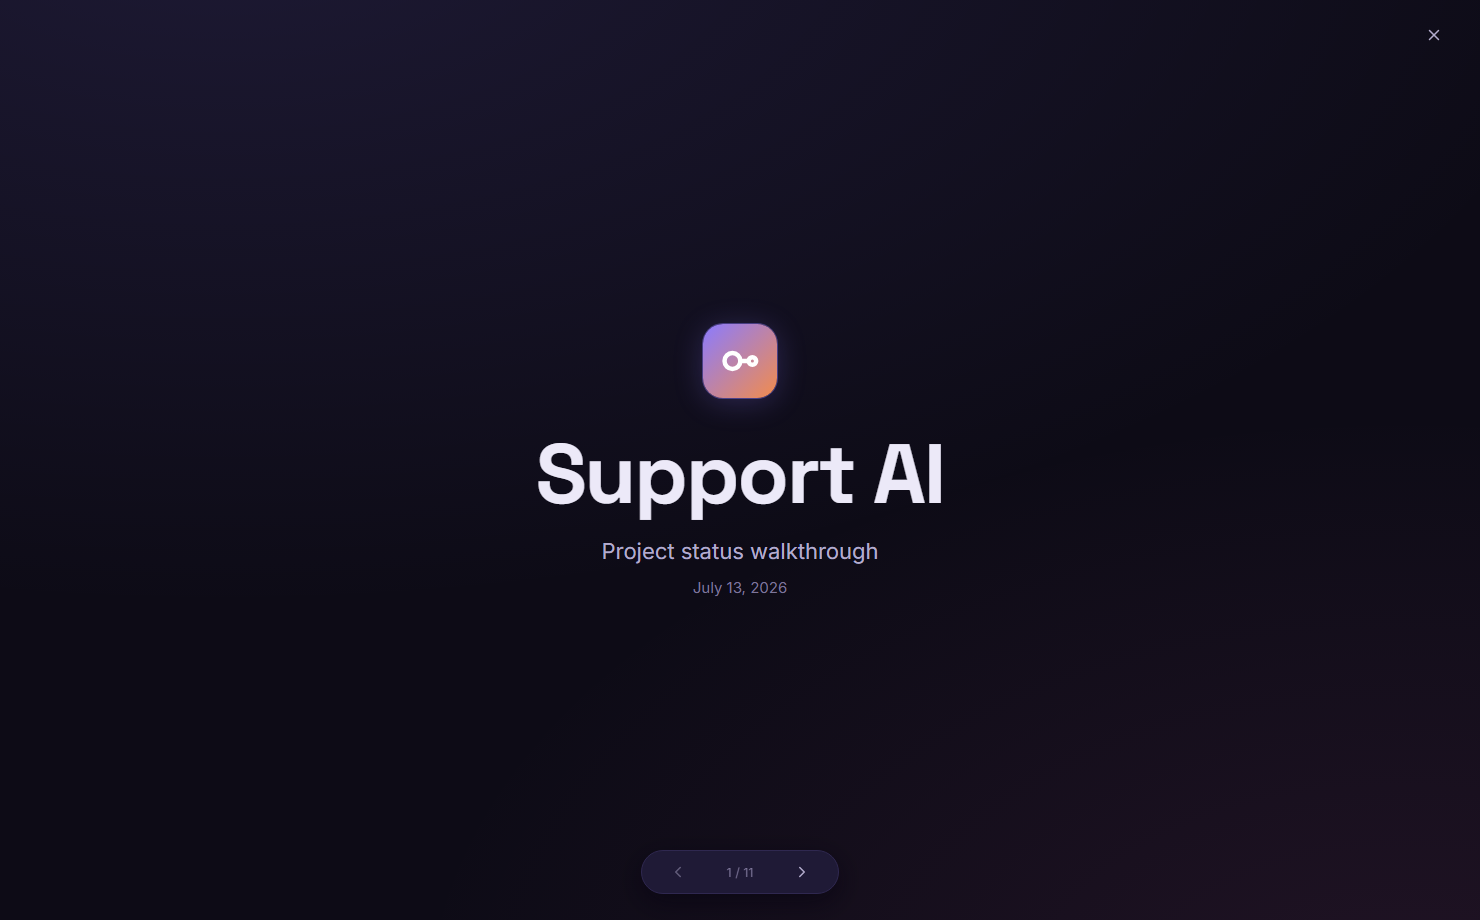
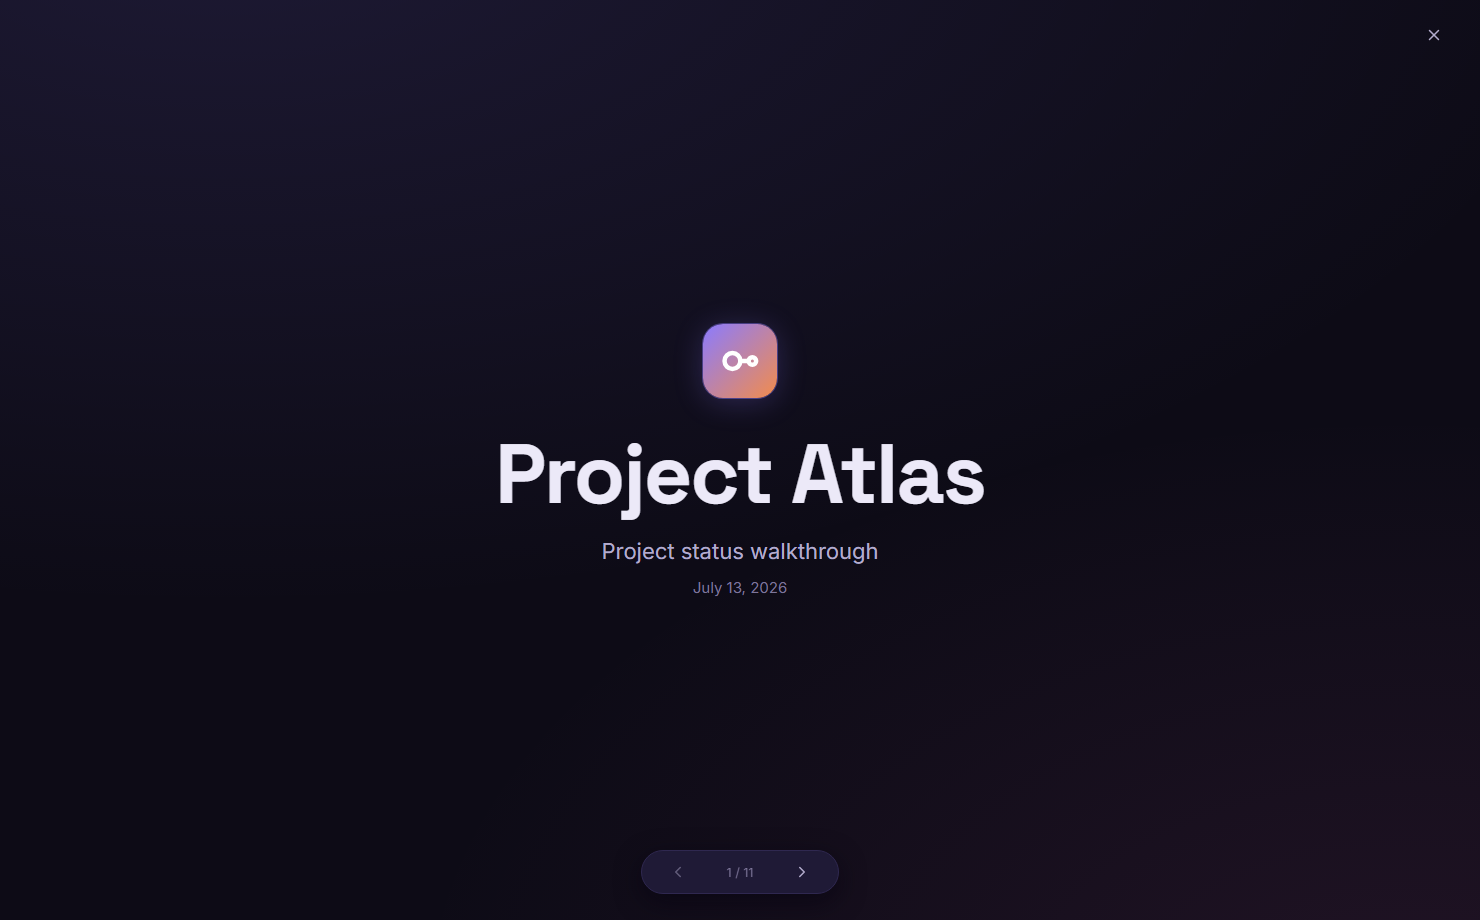
Walkthrough: neutral Project Atlas screenshots + richer team sync animation
- Regenerate all 5 screenshots from a neutral sample project (Project Atlas,
  Alex Rivera / Sam Chen), no real names or company-specific content, for
  client sharing.
- Rebuild the sync-map SVG: per-teammate color identity, two-layer streaming
  spokes, bidirectional publish/replay pulses, a breathing hub with broadcast
  rings. Self-contained, neutral labels, honors prefers-reduced-motion.

Changed region(s): [[0.3108, 0.4565, 0.6838, 0.5783]]

diff --git a/docs/walkthrough/index.html b/docs/walkthrough/index.html
@@ -1065,40 +1065,121 @@
       <div class="panel sync-map reveal">
         <svg class="sync-svg" viewBox="0 0 760 440" role="img" aria-label="A small team syncing one project through a shared folder">
           <defs>
-            <linearGradient id="syncGrad" x1="0" y1="0" x2="1" y2="0">
-              <stop offset="0" stop-color="#8b7bff"/><stop offset="0.5" stop-color="#f28c4c"/><stop offset="1" stop-color="#6ed7ff"/>
-            </linearGradient>
+            <radialGradient id="bgGlow" cx="50%" cy="50%" r="50%">
+              <stop offset="0" stop-color="#8b7bff" stop-opacity="0.16"/>
+              <stop offset="0.55" stop-color="#8b7bff" stop-opacity="0.05"/>
+              <stop offset="1" stop-color="#8b7bff" stop-opacity="0"/>
+            </radialGradient>
+            <radialGradient id="hubGlow" cx="50%" cy="50%" r="50%">
+              <stop offset="0" stop-color="#f28c4c" stop-opacity="0.55"/>
+              <stop offset="0.6" stop-color="#f28c4c" stop-opacity="0.12"/>
+              <stop offset="1" stop-color="#f28c4c" stop-opacity="0"/>
+            </radialGradient>
+            <linearGradient id="gTL" gradientUnits="userSpaceOnUse" x1="106" y1="85" x2="380" y2="220"><stop offset="0" stop-color="#8b7bff"/><stop offset="1" stop-color="#f28c4c"/></linearGradient>
+            <linearGradient id="gTR" gradientUnits="userSpaceOnUse" x1="654" y1="85" x2="380" y2="220"><stop offset="0" stop-color="#6ed7ff"/><stop offset="1" stop-color="#f28c4c"/></linearGradient>
+            <linearGradient id="gBL" gradientUnits="userSpaceOnUse" x1="106" y1="355" x2="380" y2="220"><stop offset="0" stop-color="#4cc38a"/><stop offset="1" stop-color="#f28c4c"/></linearGradient>
+            <linearGradient id="gBR" gradientUnits="userSpaceOnUse" x1="654" y1="355" x2="380" y2="220"><stop offset="0" stop-color="#c084f2"/><stop offset="1" stop-color="#f28c4c"/></linearGradient>
           </defs>
+
+          <!-- Depth: ambient glow behind the hub -->
+          <ellipse cx="380" cy="220" rx="300" ry="190" fill="url(#bgGlow)"/>
+
+          <!-- Broadcast rings radiating from the shared folder -->
+          <circle class="ring" cx="380" cy="220" r="34" fill="none" stroke="#f28c4c" stroke-width="1.4">
+            <animate attributeName="r" values="34;120" dur="4s" repeatCount="indefinite" begin="0s"/>
+            <animate attributeName="opacity" values="0.45;0" dur="4s" repeatCount="indefinite" begin="0s"/>
+          </circle>
+          <circle class="ring" cx="380" cy="220" r="34" fill="none" stroke="#f28c4c" stroke-width="1.4">
+            <animate attributeName="r" values="34;120" dur="4s" repeatCount="indefinite" begin="2s"/>
+            <animate attributeName="opacity" values="0.45;0" dur="4s" repeatCount="indefinite" begin="2s"/>
+          </circle>
+
+          <!-- Breathing halo on the hub -->
+          <circle class="hub-halo" cx="380" cy="220" r="72"/>
+
+          <!-- Spokes: base line + streaming flow, each teammate a distinct color converging to ember -->
           <g class="spokes">
-            <line x1="106" y1="85" x2="380" y2="220"/>
-            <line x1="654" y1="85" x2="380" y2="220"/>
-            <line x1="106" y1="355" x2="380" y2="220"/>
-            <line x1="654" y1="355" x2="380" y2="220"/>
+            <line class="spoke-base" x1="106" y1="85" x2="380" y2="220" stroke="url(#gTL)"/>
+            <line class="spoke-base" x1="654" y1="85" x2="380" y2="220" stroke="url(#gTR)"/>
+            <line class="spoke-base" x1="106" y1="355" x2="380" y2="220" stroke="url(#gBL)"/>
+            <line class="spoke-base" x1="654" y1="355" x2="380" y2="220" stroke="url(#gBR)"/>
+            <line class="spoke-flow" x1="106" y1="85" x2="380" y2="220" stroke="url(#gTL)"><animate attributeName="stroke-dashoffset" values="0;-15" dur="0.9s" repeatCount="indefinite"/></line>
+            <line class="spoke-flow" x1="654" y1="85" x2="380" y2="220" stroke="url(#gTR)"><animate attributeName="stroke-dashoffset" values="0;-15" dur="1s" repeatCount="indefinite"/></line>
+            <line class="spoke-flow" x1="106" y1="355" x2="380" y2="220" stroke="url(#gBL)"><animate attributeName="stroke-dashoffset" values="0;-15" dur="1.05s" repeatCount="indefinite"/></line>
+            <line class="spoke-flow" x1="654" y1="355" x2="380" y2="220" stroke="url(#gBR)"><animate attributeName="stroke-dashoffset" values="0;-15" dur="0.95s" repeatCount="indefinite"/></line>
           </g>
-          <circle class="pz" r="5"><animate attributeName="cx" values="106;380" dur="2.6s" repeatCount="indefinite" begin="0s"/><animate attributeName="cy" values="85;220" dur="2.6s" repeatCount="indefinite" begin="0s"/><animate attributeName="opacity" values="0;1;1;0" keyTimes="0;0.15;0.85;1" dur="2.6s" repeatCount="indefinite" begin="0s"/></circle>
-          <circle class="pz" r="5"><animate attributeName="cx" values="380;654" dur="2.6s" repeatCount="indefinite" begin="0.65s"/><animate attributeName="cy" values="220;85" dur="2.6s" repeatCount="indefinite" begin="0.65s"/><animate attributeName="opacity" values="0;1;1;0" keyTimes="0;0.15;0.85;1" dur="2.6s" repeatCount="indefinite" begin="0.65s"/></circle>
-          <circle class="pz" r="5"><animate attributeName="cx" values="106;380" dur="2.6s" repeatCount="indefinite" begin="1.3s"/><animate attributeName="cy" values="355;220" dur="2.6s" repeatCount="indefinite" begin="1.3s"/><animate attributeName="opacity" values="0;1;1;0" keyTimes="0;0.15;0.85;1" dur="2.6s" repeatCount="indefinite" begin="1.3s"/></circle>
-          <circle class="pz" r="5"><animate attributeName="cx" values="380;654" dur="2.6s" repeatCount="indefinite" begin="1.95s"/><animate attributeName="cy" values="220;355" dur="2.6s" repeatCount="indefinite" begin="1.95s"/><animate attributeName="opacity" values="0;1;1;0" keyTimes="0;0.15;0.85;1" dur="2.6s" repeatCount="indefinite" begin="1.95s"/></circle>
+
+          <!-- Publish pulses: each teammate's edits travel to the shared folder -->
+          <g class="pz" style="color:#8b7bff">
+            <circle class="halo" r="9"/><circle class="core" r="5"/>
+            <animateMotion path="M106,85 L380,220" dur="2.4s" begin="0s" repeatCount="indefinite" calcMode="linear"/>
+            <animate attributeName="opacity" values="0;1;1;0" keyTimes="0;0.22;0.8;1" dur="2.4s" begin="0s" repeatCount="indefinite"/>
+          </g>
+          <g class="pz" style="color:#6ed7ff">
+            <circle class="halo" r="9"/><circle class="core" r="5"/>
+            <animateMotion path="M654,85 L380,220" dur="2.4s" begin="0.6s" repeatCount="indefinite" calcMode="linear"/>
+            <animate attributeName="opacity" values="0;1;1;0" keyTimes="0;0.22;0.8;1" dur="2.4s" begin="0.6s" repeatCount="indefinite"/>
+          </g>
+          <g class="pz" style="color:#4cc38a">
+            <circle class="halo" r="9"/><circle class="core" r="5"/>
+            <animateMotion path="M106,355 L380,220" dur="2.4s" begin="1.2s" repeatCount="indefinite" calcMode="linear"/>
+            <animate attributeName="opacity" values="0;1;1;0" keyTimes="0;0.22;0.8;1" dur="2.4s" begin="1.2s" repeatCount="indefinite"/>
+          </g>
+          <g class="pz" style="color:#c084f2">
+            <circle class="halo" r="9"/><circle class="core" r="5"/>
+            <animateMotion path="M654,355 L380,220" dur="2.4s" begin="1.8s" repeatCount="indefinite" calcMode="linear"/>
+            <animate attributeName="opacity" values="0;1;1;0" keyTimes="0;0.22;0.8;1" dur="2.4s" begin="1.8s" repeatCount="indefinite"/>
+          </g>
+
+          <!-- Replay pulses: the shared folder broadcasts converged ops back to every machine -->
+          <g class="pz" style="color:#f28c4c">
+            <circle class="halo" r="8"/><circle class="core" r="4.2"/>
+            <animateMotion path="M380,220 L106,85" dur="2.4s" begin="1.2s" repeatCount="indefinite" calcMode="linear"/>
+            <animate attributeName="opacity" values="0;1;1;0" keyTimes="0;0.22;0.8;1" dur="2.4s" begin="1.2s" repeatCount="indefinite"/>
+          </g>
+          <g class="pz" style="color:#f28c4c">
+            <circle class="halo" r="8"/><circle class="core" r="4.2"/>
+            <animateMotion path="M380,220 L654,85" dur="2.4s" begin="1.8s" repeatCount="indefinite" calcMode="linear"/>
+            <animate attributeName="opacity" values="0;1;1;0" keyTimes="0;0.22;0.8;1" dur="2.4s" begin="1.8s" repeatCount="indefinite"/>
+          </g>
+          <g class="pz" style="color:#f28c4c">
+            <circle class="halo" r="8"/><circle class="core" r="4.2"/>
+            <animateMotion path="M380,220 L106,355" dur="2.4s" begin="2.4s" repeatCount="indefinite" calcMode="linear"/>
+            <animate attributeName="opacity" values="0;1;1;0" keyTimes="0;0.22;0.8;1" dur="2.4s" begin="2.4s" repeatCount="indefinite"/>
+          </g>
+          <g class="pz" style="color:#f28c4c">
+            <circle class="halo" r="8"/><circle class="core" r="4.2"/>
+            <animateMotion path="M380,220 L654,355" dur="2.4s" begin="3s" repeatCount="indefinite" calcMode="linear"/>
+            <animate attributeName="opacity" values="0;1;1;0" keyTimes="0;0.22;0.8;1" dur="2.4s" begin="3s" repeatCount="indefinite"/>
+          </g>
+
+          <!-- Teammates: each a private local database, color-keyed -->
           <g>
-            <rect class="n-rect" x="36" y="52" width="140" height="66" rx="14"/>
+            <rect class="n-rect" x="36" y="52" width="140" height="66" rx="14" style="stroke:rgba(139,123,255,0.5)"/>
+            <rect x="48" y="70" width="4" height="30" rx="2" fill="#8b7bff"/>
             <text class="n-label" x="106" y="82" text-anchor="middle">TEAMMATE</text>
             <text class="n-sub" x="106" y="101" text-anchor="middle">Private local database</text>
           </g>
           <g>
-            <rect class="n-rect" x="584" y="52" width="140" height="66" rx="14"/>
+            <rect class="n-rect" x="584" y="52" width="140" height="66" rx="14" style="stroke:rgba(110,215,255,0.5)"/>
+            <rect x="596" y="70" width="4" height="30" rx="2" fill="#6ed7ff"/>
             <text class="n-label" x="654" y="82" text-anchor="middle">TEAMMATE</text>
             <text class="n-sub" x="654" y="101" text-anchor="middle">Private local database</text>
           </g>
           <g>
-            <rect class="n-rect" x="36" y="322" width="140" height="66" rx="14"/>
+            <rect class="n-rect" x="36" y="322" width="140" height="66" rx="14" style="stroke:rgba(76,195,138,0.5)"/>
+            <rect x="48" y="340" width="4" height="30" rx="2" fill="#4cc38a"/>
             <text class="n-label" x="106" y="352" text-anchor="middle">TEAMMATE</text>
             <text class="n-sub" x="106" y="371" text-anchor="middle">Private local database</text>
           </g>
           <g>
-            <rect class="n-rect" x="584" y="322" width="140" height="66" rx="14"/>
+            <rect class="n-rect" x="584" y="322" width="140" height="66" rx="14" style="stroke:rgba(192,132,242,0.5)"/>
+            <rect x="596" y="340" width="4" height="30" rx="2" fill="#c084f2"/>
             <text class="n-label" x="654" y="352" text-anchor="middle">TEAMMATE</text>
             <text class="n-sub" x="654" y="371" text-anchor="middle">Private local database</text>
           </g>
+
+          <!-- Shared folder hub -->
           <g>
             <rect class="n-hub" x="298" y="176" width="164" height="88" rx="16"/>
             <text class="n-label hub" x="380" y="211" text-anchor="middle">SHARED FOLDER</text>
